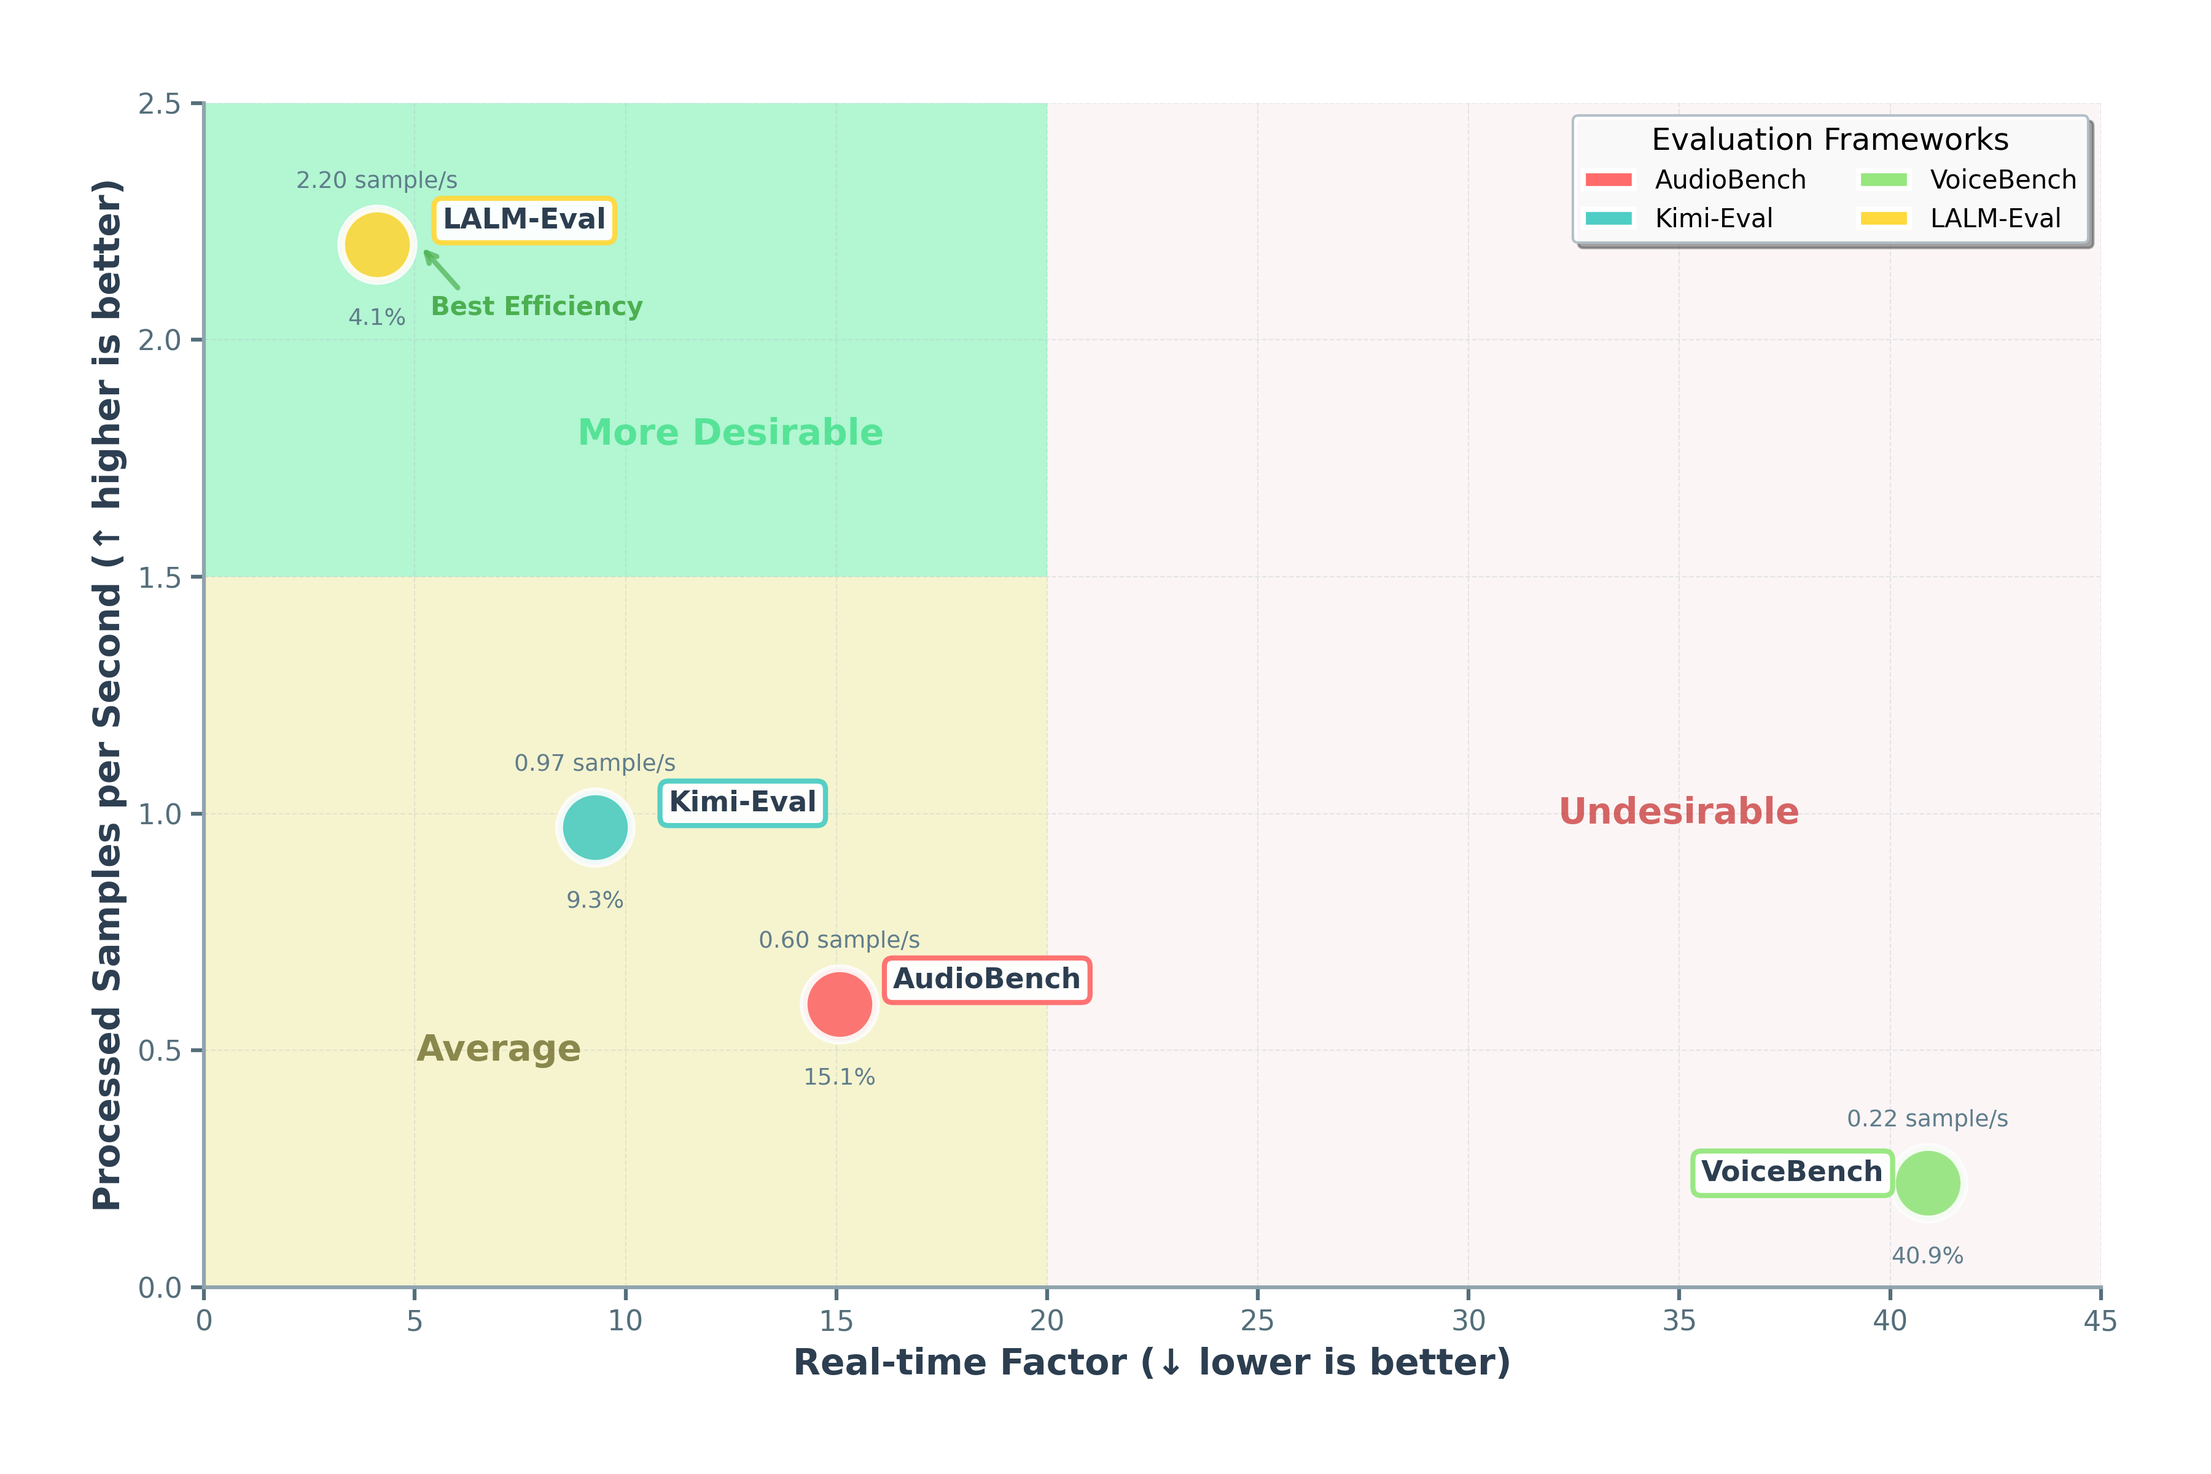
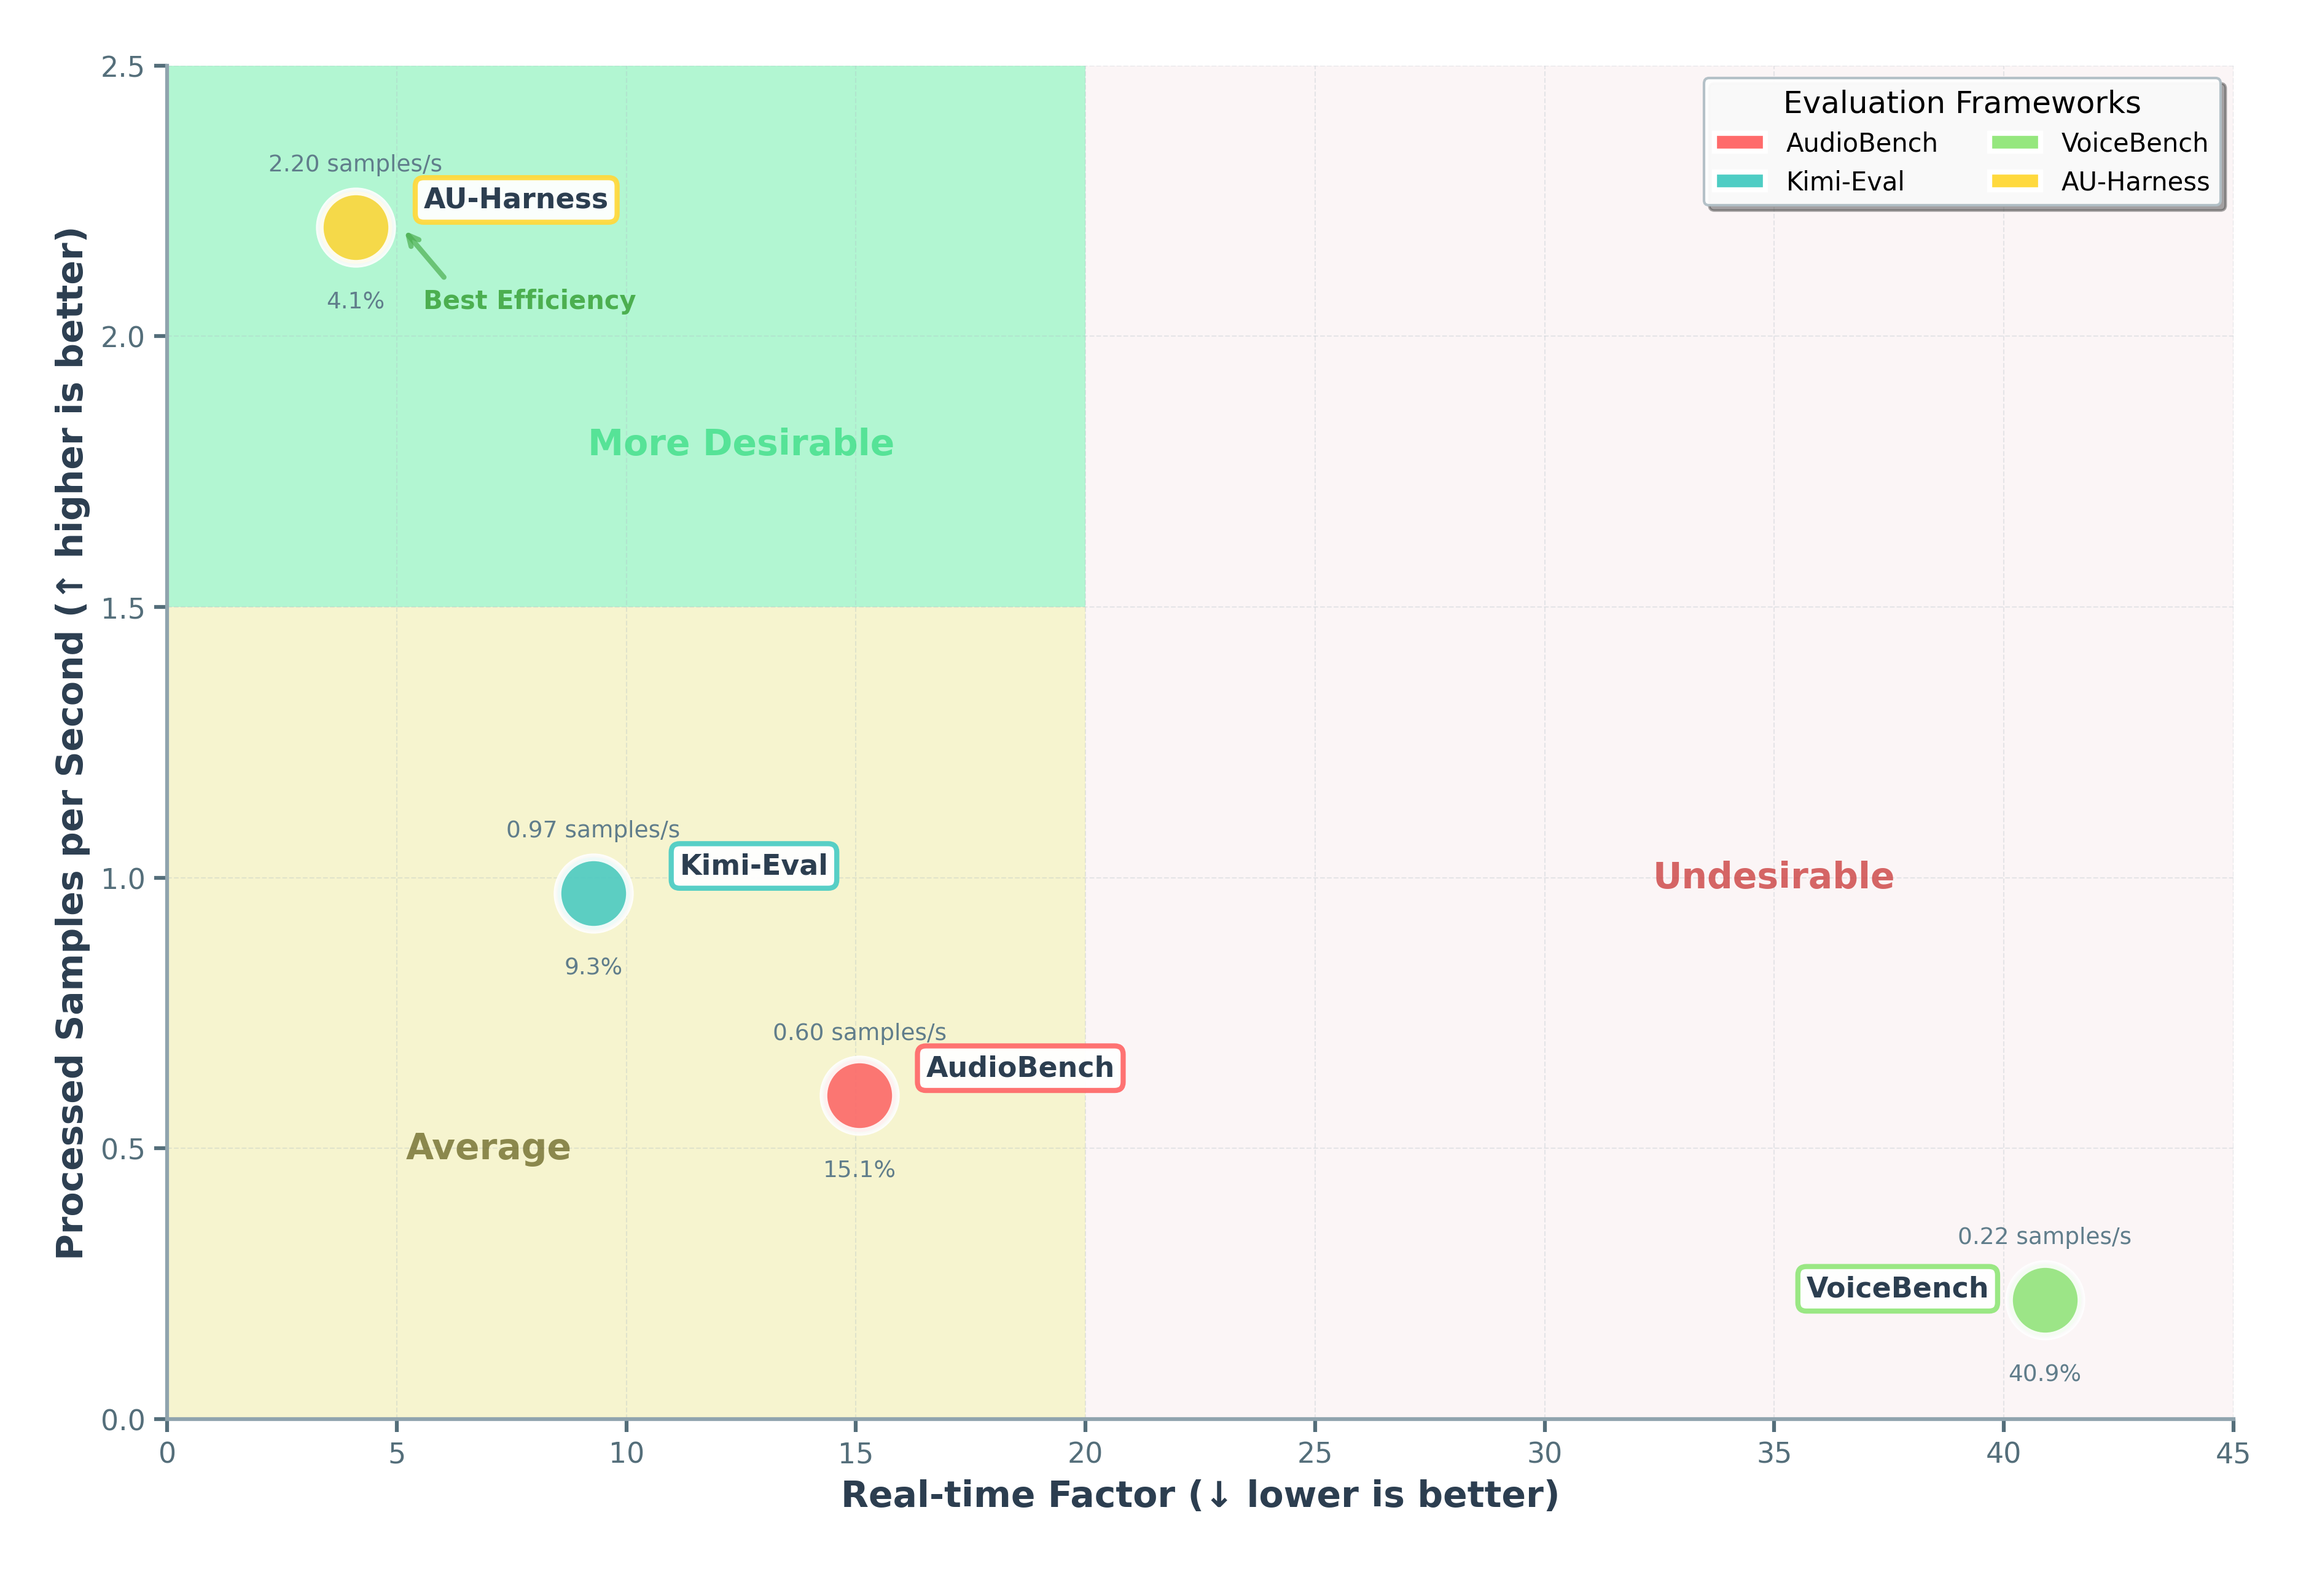
Update repo name

diff --git a/index.html b/index.html
@@ -2,10 +2,10 @@
 <html>
 <head>
   <meta charset="utf-8">
-  <meta name="description" content="LALM-Eval">
-  <meta name="keywords" content="LALM-Eval">
+  <meta name="description" content="AU-Harness">
+  <meta name="keywords" content="AU-Harness">
   <meta name="viewport" content="width=device-width, initial-scale=1">
-  <title>LALM-Eval</title>
+  <title>AU-Harness</title>
 
   <link rel="stylesheet" href="https://fonts.googleapis.com/css?family=Google+Sans|Noto+Sans|Castoro">
   <link rel="stylesheet" href="https://cdn.jsdelivr.net/npm/bulma@0.9.1/css/bulma.min.css">
@@ -13,7 +13,7 @@
   <link rel="stylesheet" href="https://cdn.jsdelivr.net/gh/jpswalsh/academicons@1.9.1/css/academicons.min.css">
   <link rel="stylesheet" href="https://cdnjs.cloudflare.com/ajax/libs/font-awesome/5.15.4/css/all.min.css">
   <link rel="stylesheet" href="./static/css/index.css">
-  <link rel="icon" type="image/png" href="./static/images/lalm-eval-logo.png">
+  <link rel="icon" type="image/png" href="./static/images/au-harness-logo.png">
   <link href="https://fonts.googleapis.com/icon?family=Material+Icons" rel="stylesheet">
 
   <script src="https://ajax.googleapis.com/ajax/libs/jquery/3.5.1/jquery.min.js"></script>
@@ -143,10 +143,10 @@
             <div class="header-container">
               <div class="logo-title-wrapper">
                 <div class="logo-wrapper">
-                  <img src="static/images/lalm-eval-logo.png" alt="LALM-Eval Logo" class="main-logo">
+                  <img src="static/images/AU-Harness-logo.png" alt="AU-Harness Logo" class="main-logo">
                 </div>
                 <div class="title-container">
-                  <h1 class="title main-title main-gradient">LALM-Eval: An Open-Source Toolkit for Holistic Evaluation of Large Audio Language Models</h1>
+                  <h1 class="title main-title main-gradient">AU-Harness: An Open-Source Toolkit for Holistic Evaluation of Audio LLMs</h1>
                 </div>
               </div>
             </div>
@@ -154,25 +154,25 @@
             <!-- Moved Links Section above authors -->
             <div class="publication-links">
               <span class="link-block">
-                <a href="#" target="_blank" class="external-link button is-normal is-rounded">
+                <a href="https://arxiv.org/abs/2509.08031" target="_blank" class="external-link button is-normal is-rounded">
                   <span class="icon"><img src="static/images/arxiv-logomark-small.svg" alt="arXiv" style="height: 1em;"></span>
                   <span>arXiv</span>
                 </a>
               </span>
               <span class="link-block">
-                <a href="#" target="_blank" class="external-link button is-normal is-rounded">
+                <a href="https://arxiv.org/pdf/2509.08031" target="_blank" class="external-link button is-normal is-rounded">
                   <span class="icon"><img src="static/images/pdf-svgrepo-com.svg" alt="PDF" style="height: 1em;"></span>
                   <span>PDF</span>
                 </a>
               </span>
               <span class="link-block">
-                <a href="https://github.com/ServiceNow/LALM-Eval" target="_blank" class="external-link button is-normal is-rounded">
+                <a href="https://github.com/ServiceNow/AU-Harness" target="_blank" class="external-link button is-normal is-rounded">
                   <span class="icon"><img src="static/images/github-mark.svg" alt="GitHub" style="height: 1em;"></span>
                   <span>Github</span>
                 </a>
               </span>
               <span class="link-block">
-                <a href="https://huggingface.co/collections/ServiceNow-AI/lalm-eval-datasets-688baf68cf412e1b03b8215c" target="_blank" class="external-link button is-normal is-rounded">
+                <a href="https://huggingface.co/collections/ServiceNow-AI/AU-Harness-datasets-688baf68cf412e1b03b8215c" target="_blank" class="external-link button is-normal is-rounded">
                   <span class="icon"><img src="static/images/huggingface_logo-noborder.svg" alt="Hugging Face" style="height: 1em;"></span>
                   <span>Datasets Collection</span>
                 </a>
@@ -182,11 +182,11 @@
             <!-- Authors Section with all authors visible -->
             <div class="authors-container">
               <div class="authors-list">
-                <span class="author-item"><a href="https://scholar.google.com/citations?hl=en&user=5nyG9uAAAAAJ">Sidharth Surapaneni<sup>2,3</sup></a>,</span>
+                <span class="author-item"><a href="https://scholar.google.com/citations?hl=en&user=5nyG9uAAAAAJ">Sidharth Surapaneni<sup>2,*</sup></a>,</span>
                 <span class="author-item"><a href="https://scholar.google.com/citations?user=YKcLxDQAAAAJ&hl=en&oi=sra">Hoang Nguyen<sup>1</sup></a>,</span>
                 <span class="author-item"><a href="https://scholar.google.com/citations?user=1Tms710AAAAJ&hl=en&oi=ao">Jash Mehta<sup>1</sup></a>,</span>
                 <span class="author-item"><a href="https://scholar.google.com/citations?user=yp1T9P0AAAAJ&hl=en&oi=ao">Aman Tiwari<sup>1</sup></a>,</span>
-                <span class="author-item"><a href="#">Oluwanifemi Bamgbose<sup>1</sup></a>,</span>
+                <span class="author-item"><a href="https://www.linkedin.com/in/nifemi-bam/?originalSubdomain=ca">Oluwanifemi Bamgbose<sup>1</sup></a>,</span>
                 <span class="author-item"><a href="https://scholar.google.com/citations?user=-GV1fg4AAAAJ&hl=en">Akshay Kalkunte<sup>1</sup></a>,</span>
                 <span class="author-item"><a href="https://sairajeswar.com/">Sai Rajeswar<sup>1</sup></a>,</span>
                 <span class="author-item"><a href="https://scholar.google.com/citations?user=wwVSfRsAAAAJ&hl=en">Sathwik Tejaswi Madhusudhan<sup>1</sup></a>,</span>
@@ -198,7 +198,7 @@
               <div class="affiliations-list">
                 <span class="affiliation-item"><sup>1</sup>ServiceNow,</span>
                 <span class="affiliation-item"><sup>2</sup>University of Texas at Austin,</span>
-                <span class="affiliation-item"><sup>3</sup>Work done during internship at ServiceNow,</span>
+                <span class="affiliation-item"><sup>*</sup>Work done during internship at ServiceNow,</span>
               </div>
             </div>
           </div>
@@ -215,7 +215,7 @@
         <div class="tldr-container">
           <h3 class="tldr-title"><i class="fas fa-lightbulb"></i> TL;DR</h3>
           <div class="tldr-content">
-            <p>LALM-Eval is a standardized, efficient and highly customizable open-source framework for evaluating audio-based language models on Audio-to-Text tasks. Built for researchers and developers, it provides a comprehensive suite of tools to benchmark and compare the performance of various audio processing models.</p>
+            <p>AU-Harness is a standardized, efficient and highly customizable open-source framework for evaluating audio-based language models on Audio-to-Text tasks. Built for researchers and developers, it provides a comprehensive suite of tools to benchmark and compare the performance of various audio processing models.</p>
             <ul class="tldr-list">
               <li>
                 <i class="fas fa-check-circle"></i>
@@ -246,7 +246,7 @@
           </div>
         </div>
         
-        <h2 class="title is-3 main-gradient">What is LALM-Eval?</h2>
+        <h2 class="title is-3 main-gradient">What is AU-Harness?</h2>
         <p>
           Large Audio Language Models (LALMs) are rapidly advancing, but evaluating
           them remains challenging due to inefficient toolkits that limit fair comparison and
@@ -259,7 +259,7 @@
         <div style="height: 20px;"></div>
         
         <p>
-          To address these challenges, we present LALM-Eval, a comprehensive evaluation framework that transforms how audio language models are benchmarked through three core contributions:
+          To address these challenges, we present AU-Harness, a comprehensive evaluation framework that transforms how audio language models are benchmarked through three core contributions:
         </p>
         <ul style="margin-left: 1.5rem; margin-top: 1rem; margin-bottom: 1.5rem;">
           <li style="margin-bottom: 0.8rem;"><strong style="color: #1BC5BD;">High-Performance Evaluation Engine:</strong> Our architecture leverages vLLM batching, dataset sharding, and parallel task execution to scale evaluations to multi-node infrastructures without sacrificing fidelity.</li>
@@ -274,7 +274,7 @@
           <!-- Taxonomy Image -->
           <div class="gallery-item">
             <div class="image-container">
-              <img src="static/images/taxonomy.png" alt="LALM-Eval Task Taxonomy" class="gallery-image">
+              <img src="static/images/taxonomy.png" alt="AU-Harness Task Taxonomy" class="gallery-image">
             </div>
             <div class="image-caption">
               <h4>Task Taxonomy</h4>
@@ -749,10 +749,7 @@
 
           /* Gradient style for title */
           .main-gradient {
-            background: linear-gradient(45deg, #1BC5BD, #4E9BE2, #F64E87);
-            -webkit-background-clip: text;
-            background-clip: text;
-            -webkit-text-fill-color: transparent;
+            color: #4E9BE2; /* Changed to a solid blue color */
             display: inline-block;
             width: 100%;
             text-align: center;
@@ -1023,10 +1020,7 @@
 
           /* Ensure consistent gradient styling for all titles */
           .title.main-gradient {
-            background: linear-gradient(45deg, #1BC5BD, #4E9BE2, #F64E87);
-            -webkit-background-clip: text;
-            background-clip: text;
-            -webkit-text-fill-color: transparent;
+            color: #4E9BE2; /* Changed to a solid blue color */
             display: inline-block;
             margin-bottom: 1rem;
             position: relative;
@@ -1037,7 +1031,7 @@
             display: block;
             height: 2px;
             width: 50px;
-            background: linear-gradient(45deg, #1BC5BD, #4E9BE2);
+            background: #4E9BE2; /* Changed to a solid blue color */
             margin-top: 0.5rem;
             border-radius: 2px;
             transition: width 0.3s ease;
@@ -1205,14 +1199,12 @@
           If you find this work useful for your research, please consider citing our paper:
         </p>
         <div class="citation-container">
-          <pre class="citation-text"><code>@misc{LALM-Eval,
-    title={LALM-Eval: An Open-Source Toolkit for Holistic Evaluation of Large Audio Language Models}, 
-    author={Sidharth Surapaneni and Hoang Nguyen and Jash Mehta and Aman Tiwari and Oluwanifemi Bamgbose and Akshay Kalkunte and Sai Rajeswar and Sathwik Tejaswi Madhusudhan},
-    year={2025},
-    url={https://github.com/ServiceNow/LALM-Eval},
-    version={0.1.0}
+          <pre class="citation-text"><code>@article{surapaneni2025auharness,
+  title={AU-Harness: An Open-Source Toolkit for Holistic Evaluation of Audio LLMs},
+  author={Sidharth Surapaneni and Hoang Nguyen and Jash Mehta and Aman Tiwari and Oluwanifemi Bamgbose and Akshay Kalkunte and Sai Rajeswar and Sathwik Tejaswi Madhusudhan},
+  journal={arXiv preprint arXiv:2509.08031},
+  year={2025}
 }</code></pre>
-
         </div>
 
         <style>
@@ -1407,10 +1399,7 @@
           /* Enhanced title hover effects for ALL titles with main-gradient class */
           .title.is-3.main-gradient,
           .title.is-4.main-gradient {
-            background: linear-gradient(45deg, #1BC5BD, #4E9BE2, #F64E87);
-            -webkit-background-clip: text;
-            background-clip: text;
-            -webkit-text-fill-color: transparent;
+            color: #4E9BE2; /* Changed to a solid blue color */
             display: inline-block;
             margin-bottom: 1rem;
             position: relative;
@@ -1424,7 +1413,7 @@
             display: block;
             height: 2px;
             width: 50px;
-            background: linear-gradient(45deg, #1BC5BD, #4E9BE2);
+            background: #4E9BE2; /* Changed to a solid blue color */
             margin-top: 0.5rem;
             border-radius: 2px;
             transition: all 0.3s ease;
@@ -1434,24 +1423,14 @@
           .title.is-3.main-gradient:hover,
           .title.is-4.main-gradient:hover {
             transform: translateY(-3px);
-            text-shadow: 
-              2px 2px 4px rgba(27, 197, 189, 0.2),
-              -2px -2px 4px rgba(246, 78, 135, 0.2);
-            background: linear-gradient(45deg, 
-              #1BC5BD 0%, 
-              #4E9BE2 50%, 
-              #F64E87 100%);
-            background-size: 200% auto;
-            -webkit-background-clip: text;
-            background-clip: text;
-            -webkit-text-fill-color: transparent;
-            animation: gradient 3s linear infinite;
+            color: #3A7BC8; /* Darker blue on hover */
+            text-shadow: 0 2px 4px rgba(74, 144, 226, 0.2);
           }
 
           .title.is-3.main-gradient:hover::after,
           .title.is-4.main-gradient:hover::after {
             width: 100px;
-            background: linear-gradient(45deg, #F64E87, #4E9BE2);
+            background: #3A7BC8; /* Changed to a solid darker blue color */
           }
 
           /* Make sure the animation keyframes are defined */

diff --git a/README.md b/README.md
@@ -1,1 +1,1 @@
-# lalm-eval.github.io
+# AU-Harness.github.io
